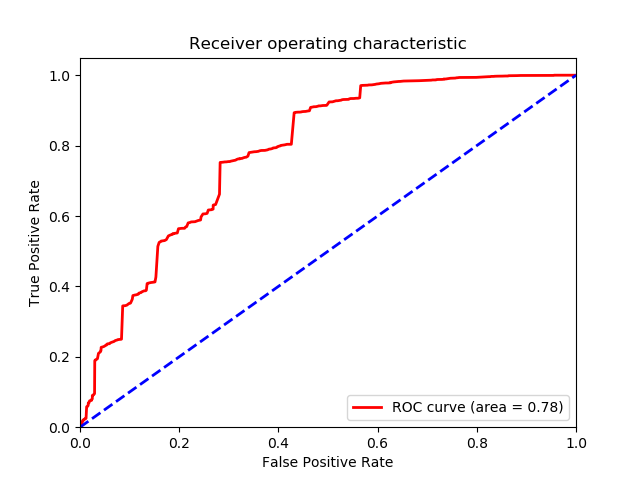
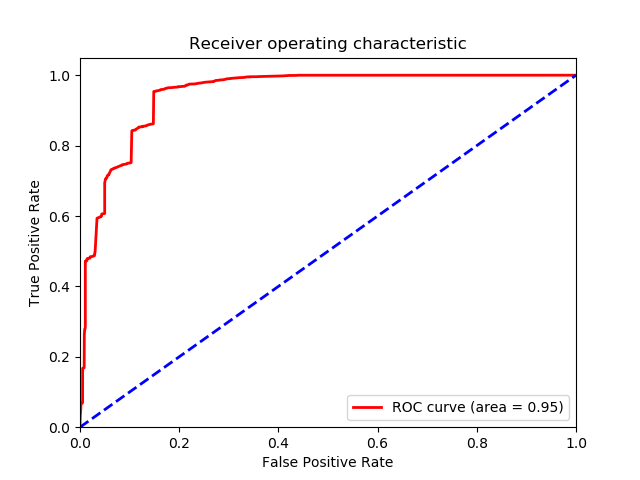
facedata enable after 182 resizing

diff --git a/data_loader9.py b/data_loader9.py
@@ -5,8 +5,8 @@ from skimage import io
 import torch
 from torchvision import transforms
 from torch.utils.data import Dataset
-from trans9 import ToTensor9
-
+from trans9 import ToTensor9,FaceDataToTensor
+from pathlib import Path
 
 class TripletFaceDataset(Dataset):
 
@@ -77,13 +77,23 @@ class TripletFaceDataset(Dataset):
         
         anc_id, pos_id, neg_id, pos_class, neg_class, pos_name, neg_name = self.training_triplets[idx]
         
-        anc_img   = os.path.join(self.root_dir, str(pos_name), str(anc_id) + '.png')
-        pos_img   = os.path.join(self.root_dir, str(pos_name), str(pos_id) + '.png')
-        neg_img   = os.path.join(self.root_dir, str(neg_name), str(neg_id) + '.png')
-        
-        anc_img   = io.imread(anc_img)
-        pos_img   = io.imread(pos_img)
-        neg_img   = io.imread(neg_img)
+        pathRoot = Path(self.root_dir)
+        if pathRoot.parent.name == 'facedata':  # need load from .npy
+            anc_img   = os.path.join(self.root_dir, str(pos_name), str(anc_id) + '.npy')
+            pos_img   = os.path.join(self.root_dir, str(pos_name), str(pos_id) + '.npy')
+            neg_img   = os.path.join(self.root_dir, str(neg_name), str(neg_id) + '.npy')
+            
+            anc_img   = np.load(anc_img)
+            pos_img   = np.load(pos_img)
+            neg_img   = np.load(neg_img)
+        else:
+            anc_img   = os.path.join(self.root_dir, str(pos_name), str(anc_id) + '.png')
+            pos_img   = os.path.join(self.root_dir, str(pos_name), str(pos_id) + '.png')
+            neg_img   = os.path.join(self.root_dir, str(neg_name), str(neg_id) + '.png')
+
+            anc_img   = io.imread(anc_img)
+            pos_img   = io.imread(pos_img)
+            neg_img   = io.imread(neg_img)
 
         pos_class = torch.from_numpy(np.array([pos_class]).astype('long'))
         neg_class = torch.from_numpy(np.array([neg_class]).astype('long'))
@@ -102,6 +112,12 @@ class TripletFaceDataset(Dataset):
         
         return len(self.training_triplets)
     
+def get_trans(root_dir):
+    rootPath = Path(root_dir)
+    if rootPath.parent.name == 'facedata':
+        return 'face'
+    return ''
+
 
 def get_dataloader(train_root_dir,     valid_root_dir, 
                    train_csv_name,     valid_csv_name, 
@@ -115,20 +131,30 @@ def get_dataloader(train_root_dir,     valid_root_dir,
             transforms.RandomHorizontalFlip(),
             ToTensor9(),
             transforms.Normalize(mean = [0.5, 0.5, 0.5, 0.5, 0.5, 0.5, 0.5, 0.5, 0.5], std = [0.5, 0.5, 0.5, 0.5, 0.5, 0.5, 0.5, 0.5, 0.5])]),
+        'trainface': transforms.Compose([
+            #transforms.ToPILImage(),
+            #transforms.RandomHorizontalFlip(),
+            FaceDataToTensor(),
+            transforms.Normalize(mean = [0.5, 0.5, 0.5, 0.5, 0.5, 0.5, 0.5, 0.5, 0.5], std = [0.5, 0.5, 0.5, 0.5, 0.5, 0.5, 0.5, 0.5, 0.5])]),        
         'valid': transforms.Compose([
             transforms.ToPILImage(),
             ToTensor9(),
-            transforms.Normalize(mean = [0.5, 0.5, 0.5, 0.5, 0.5, 0.5, 0.5, 0.5, 0.5], std = [0.5, 0.5, 0.5, 0.5, 0.5, 0.5, 0.5, 0.5, 0.5])])}
+            transforms.Normalize(mean = [0.5, 0.5, 0.5, 0.5, 0.5, 0.5, 0.5, 0.5, 0.5], std = [0.5, 0.5, 0.5, 0.5, 0.5, 0.5, 0.5, 0.5, 0.5])]),
+        'validface': transforms.Compose([
+            #transforms.ToPILImage(),
+            FaceDataToTensor(),
+            transforms.Normalize(mean = [0.5, 0.5, 0.5, 0.5, 0.5, 0.5, 0.5, 0.5, 0.5], std = [0.5, 0.5, 0.5, 0.5, 0.5, 0.5, 0.5, 0.5, 0.5])])           
+            }
 
     face_dataset = {
         'train' : TripletFaceDataset(root_dir     = train_root_dir,
                                      csv_name     = train_csv_name,
                                      num_triplets = num_train_triplets,
-                                     transform    = data_transforms['train']),
+                                     transform    = data_transforms['train'+ get_trans(train_root_dir)]),
         'valid' : TripletFaceDataset(root_dir     = valid_root_dir,
                                      csv_name     = valid_csv_name,
                                      num_triplets = num_valid_triplets,
-                                     transform    = data_transforms['valid'])}
+                                     transform    = data_transforms['valid' + get_trans(valid_root_dir)])}
 
     dataloaders = {
         x: torch.utils.data.DataLoader(face_dataset[x], batch_size = batch_size, shuffle = False, num_workers = num_workers)

diff --git a/train.py b/train.py
@@ -35,13 +35,21 @@ parser.add_argument('--learning-rate', default = 0.001, type = float, metavar = 
                     help = 'learning rate (default: 0.001)')
 parser.add_argument('--margin', default = 0.5, type = float, metavar = 'MG',
                     help = 'margin (default: 0.5)')
-parser.add_argument('--train-root-dir', default = '/home/lwang/data/facenetsmall/lfwtrain/', type = str,
+# parser.add_argument('--train-root-dir', default = '/home/lwang/data/facenetsmall/lfwtrain/', type = str,
+#                     help = 'path to train root dir')
+# parser.add_argument('--valid-root-dir', default = '/home/lwang/data/facenetsmall/lfwvalid/', type = str,
+#                     help = 'path to valid root dir')
+# parser.add_argument('--train-csv-name', default = '/home/lwang/data/facenetsmall/lfwtrain.csv', type = str,
+#                     help = 'list of training images')
+# parser.add_argument('--valid-csv-name', default = '/home/lwang/data/facenetsmall/lfwvalid.csv', type = str,
+#                     help = 'list of validtion images')
+parser.add_argument('--train-root-dir', default = '/home/lwang/data/facedata/train/', type = str,
                     help = 'path to train root dir')
-parser.add_argument('--valid-root-dir', default = '/home/lwang/data/facenetsmall/lfwvalid/', type = str,
+parser.add_argument('--valid-root-dir', default = '/home/lwang/data/facedata/valid/', type = str,
                     help = 'path to valid root dir')
-parser.add_argument('--train-csv-name', default = '/home/lwang/data/facenetsmall/lfwtrain.csv', type = str,
+parser.add_argument('--train-csv-name', default = '/home/lwang/data/facedata/train.csv', type = str,
                     help = 'list of training images')
-parser.add_argument('--valid-csv-name', default = '/home/lwang/data/facenetsmall/lfwvalid.csv', type = str,
+parser.add_argument('--valid-csv-name', default = '/home/lwang/data/facedata/valid.csv', type = str,
                     help = 'list of validtion images')
 
 args    = parser.parse_args()

diff --git a/trans9.py b/trans9.py
@@ -2,8 +2,9 @@
 import torch
 import torchvision.transforms.functional as F
 import numpy as np
+from skimage import io, transform
 class ToTensor9(object):
-    """Convert ndarrays in sample to Tensors of 8 channel."""
+    """Convert ndarrays in sample to Tensors of 9 channel."""
 
     def __call__(self, sample):
         #image, landmarks = sample['image'], sample['landmarks']
@@ -15,9 +16,26 @@ class ToTensor9(object):
         # torch image: C X H X W
         # we need this routine 
         tensorfromimg = F.to_tensor(image)
-        return torch.cat((tensorfromimg, tensorfromimg, tensorfromimg), 0)
+        return torch.cat((tensorfromimg, tensorfromimg, tensorfromimg), 0)  # 0 means channels dimention 9 is back to the first one
         # image9 = np.concatenate((image, image, image), 2)
         # image9 = image9.transpose((2, 0, 1))
         # return torch.from_numpy(image9)
         # return {'image': torch.from_numpy(image),
         #         'landmarks': torch.from_numpy(landmarks)}
+
+class FaceDataToTensor(object):
+    """ facedata, already 9 channel, so still use F.to_tensor three time."""
+    def __call__(self, sample):
+        # the image is rescaled already to desired 182 in our case
+        # t1 = transform.resize(sample[...,0:3], (182, 182))
+        # t1.astype(np.uint8)
+        t1 =F.to_tensor(sample[...,0:3])
+        
+        # t2 = transform.resize(sample[...,3:6], (182, 182))
+        # t2.astype(np.uint8)
+        t2 =F.to_tensor(sample[...,3:6])
+
+        # t3 = transform.resize(sample[..., 6:], (182, 182))
+        # t3.astype(np.uint8)
+        t3 =F.to_tensor(sample[..., 6:])
+        return torch.cat((t1,t2,t3),0)
